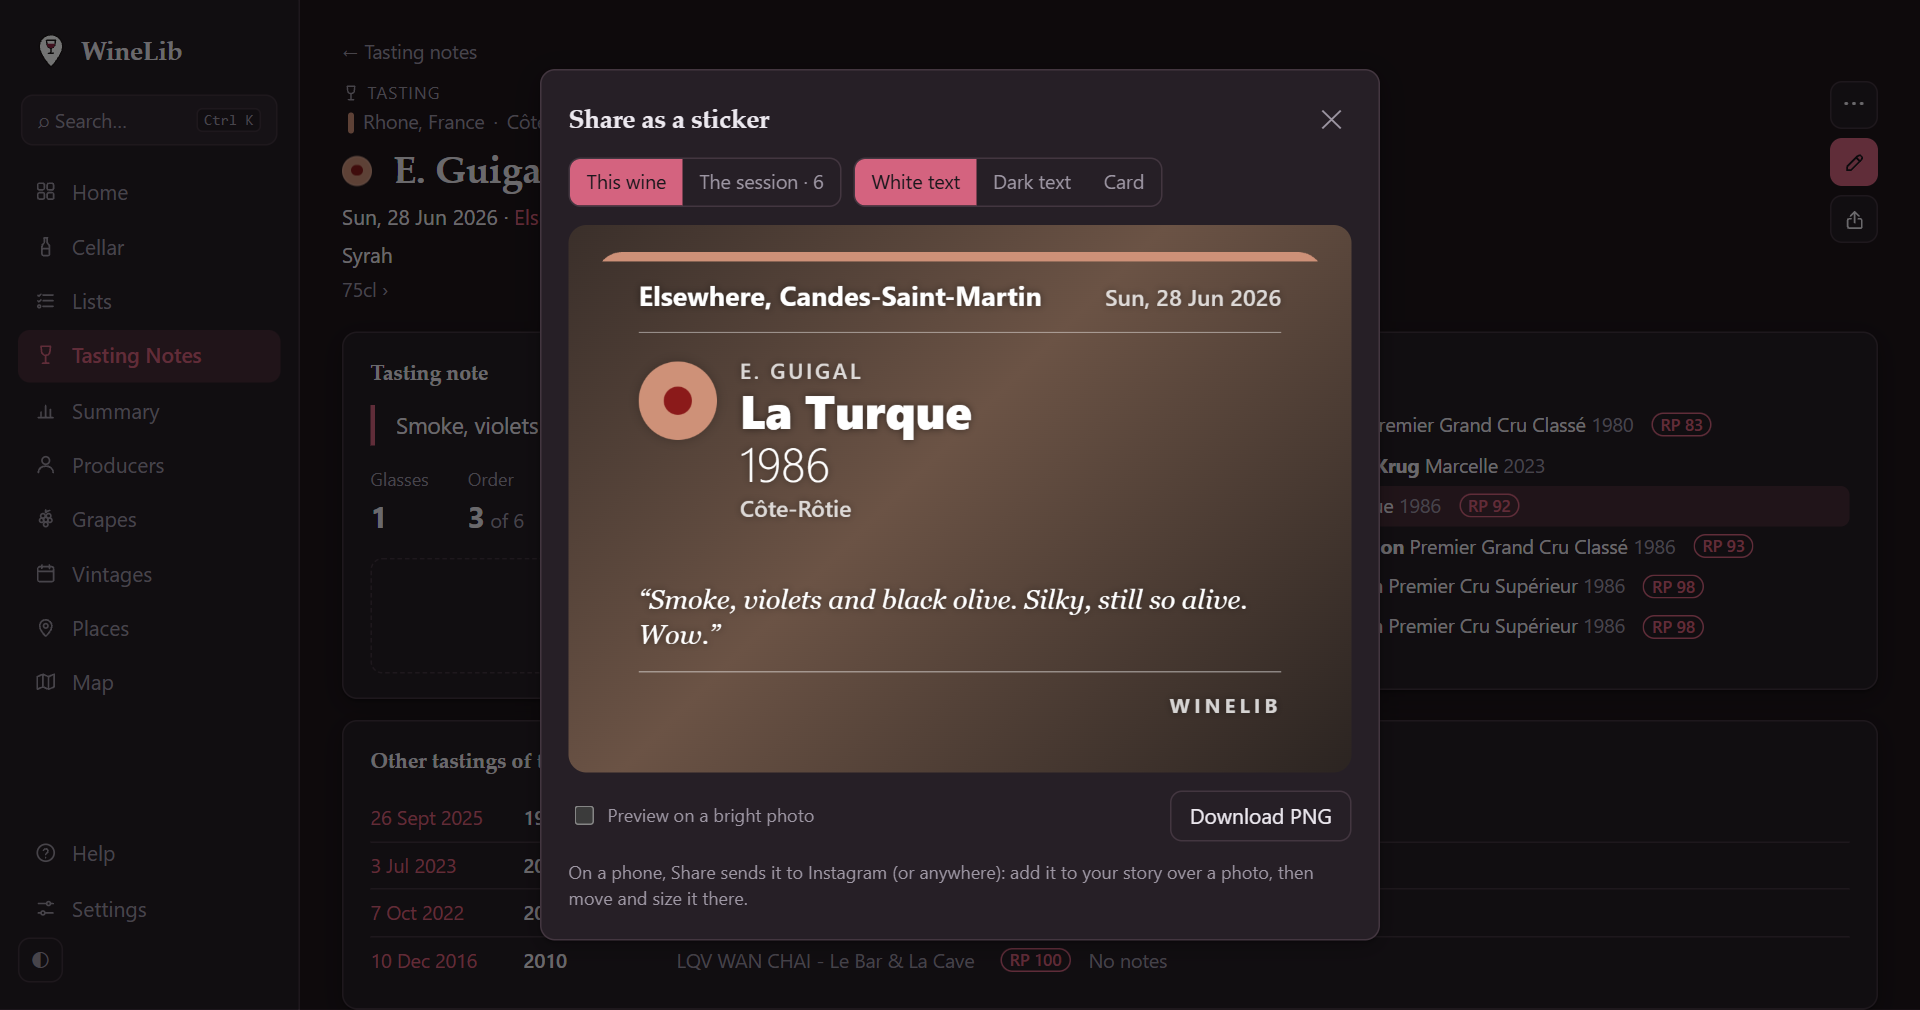
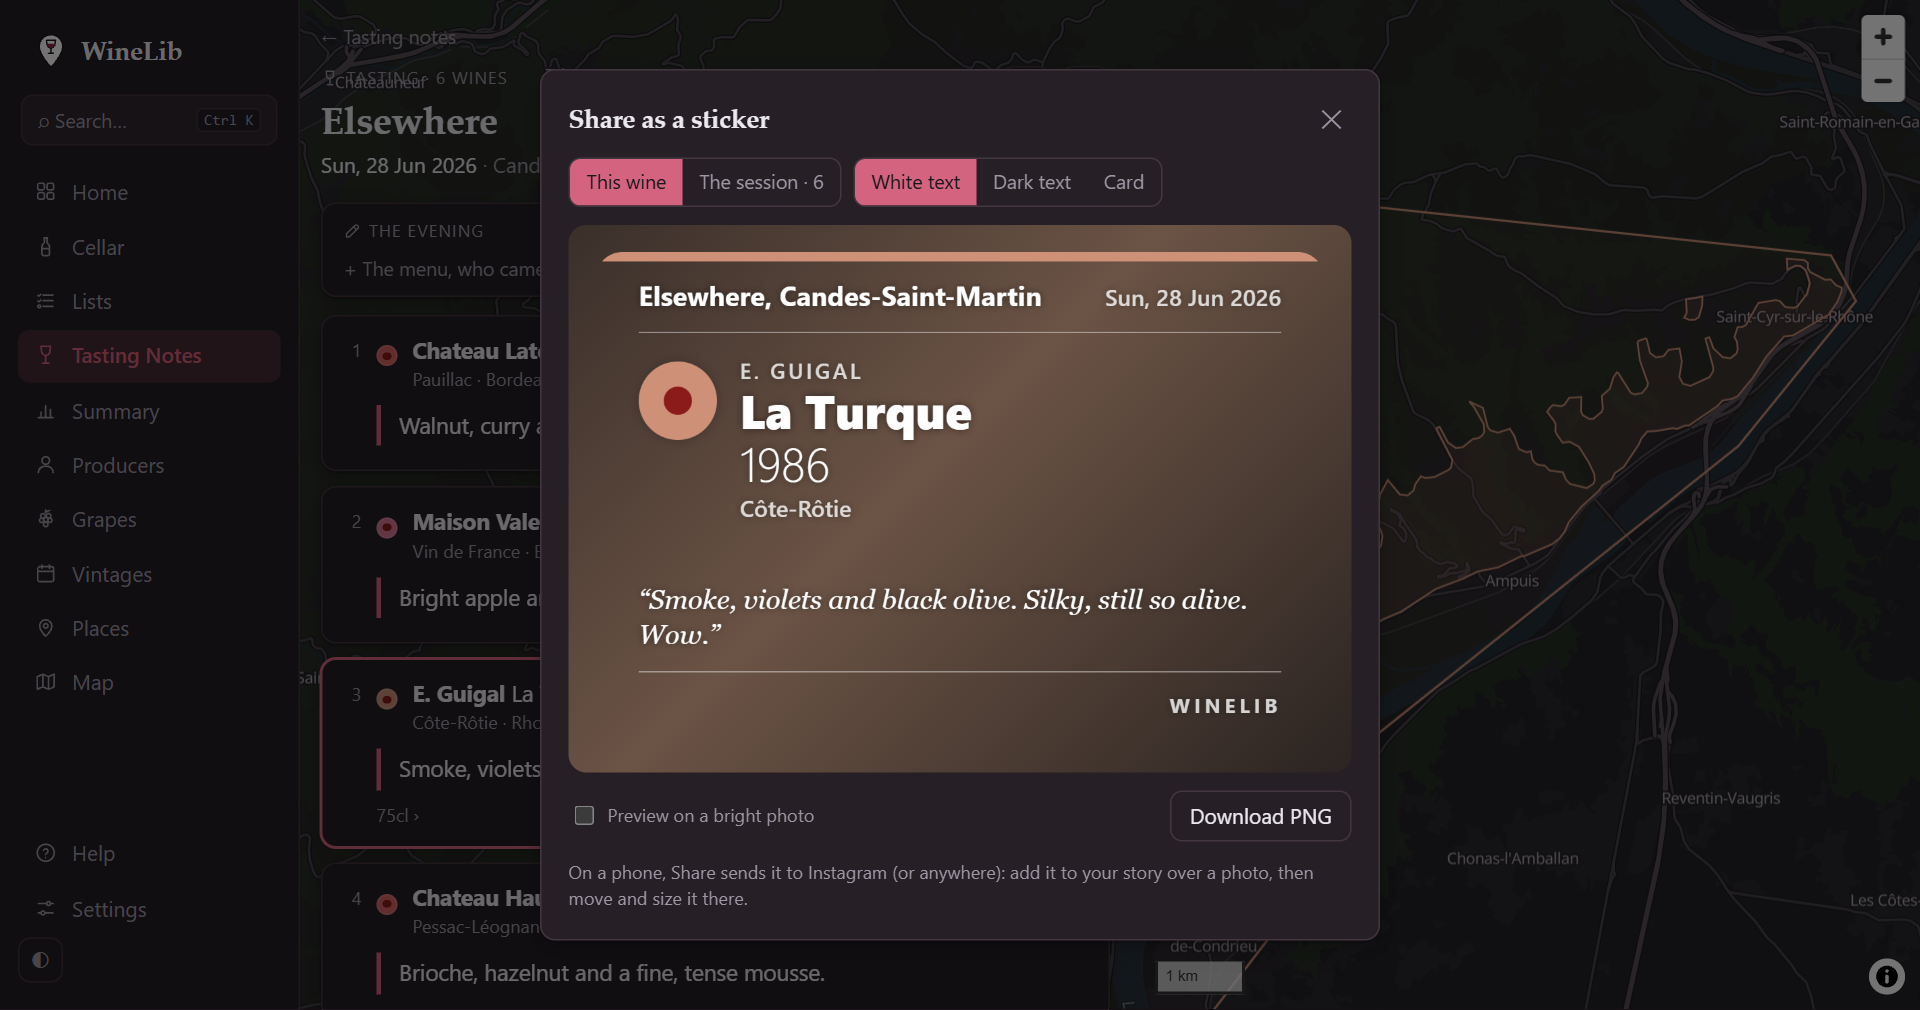
v0.8.4
The map without its Both / Cellar / Tasted switch, each page colouring it by
its own; the screenshots retaken.

diff --git a/app/api/version.py b/app/api/version.py
@@ -1,3 +1,3 @@
 """The version this code is: the last release's, with "+dev" for what came after it. A release sets it to its tag
 without the "v" (the release workflow refuses a tag that doesn't match)."""
-VERSION = "0.8.3"
+VERSION = "0.8.4"

diff --git a/CHANGELOG.md b/CHANGELOG.md
@@ -1,6 +1,6 @@
 # Changelog
 
-## Unreleased
+## v0.8.4
 
 - **No Both / Cellar / Tasted switch on the map**: each page colours its map by its own (the home page by your bottles
   and tastings, the cellar by its bottles, the tastings by them); a place's card is back at the map's top (the switch
